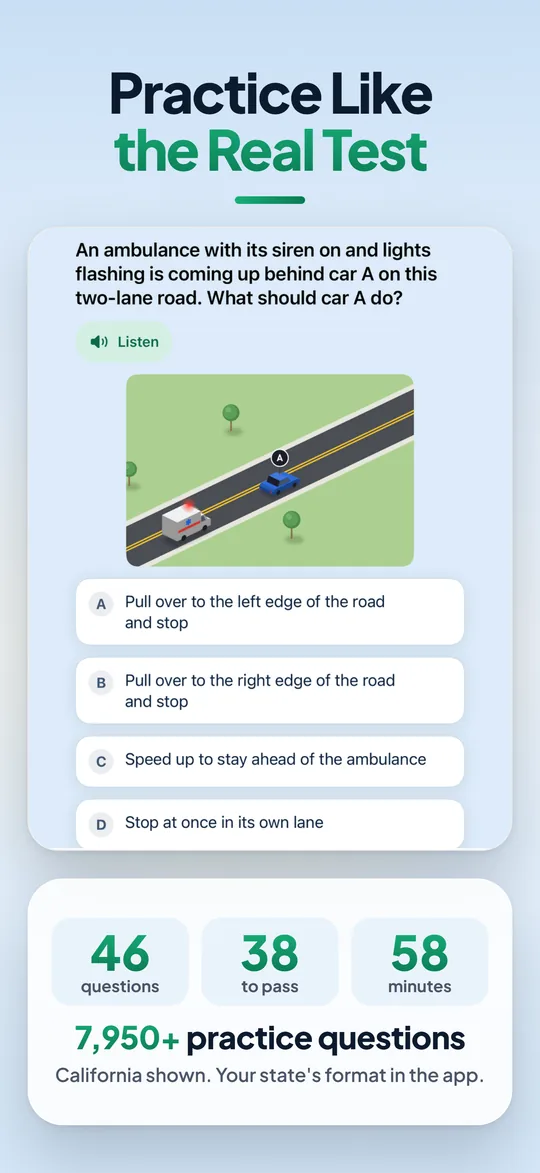
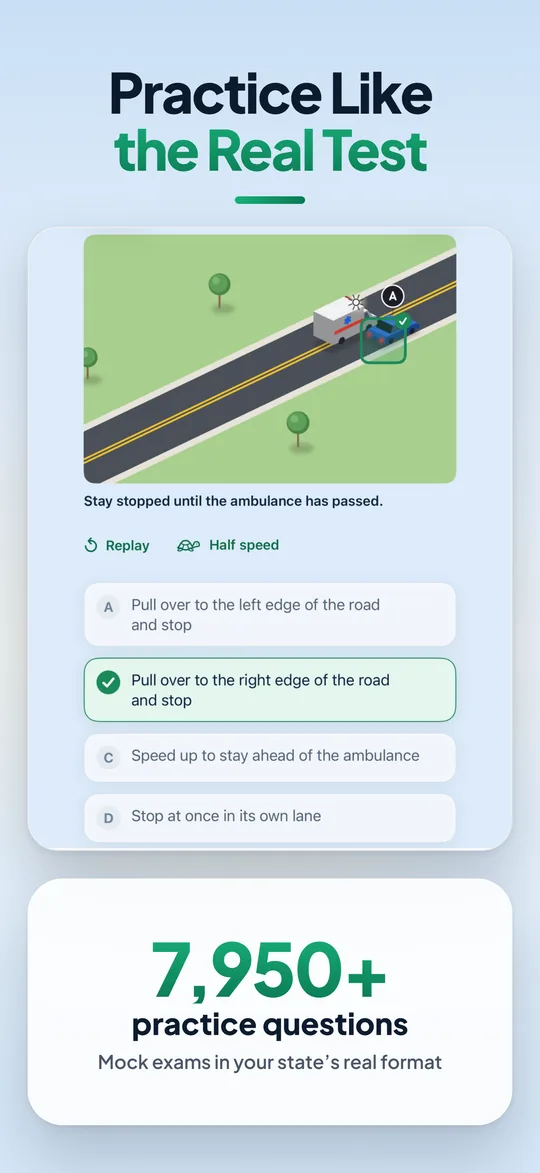
STAGED for 2.0, not published: store picture 3 = ambulance question in practice (scene full width) + Option B card
Same picture as version 2.0's store sets (uploaded 11-19): en/es 3 now show the green 2.0 practice screen with the ambulance
scene playing at full width (Replay / Half speed) and the card "7,950+ practice questions / Mock exams in your state's real
format" ("preguntas de práctica / Simulacros con el formato real de tu estado"); no California numbers. Alt text follows.
check_site: only the 2 sitemap lastmod notes for the privacy pages that were already there before.

Changed region(s): [[0.1185, 0.1841, 0.8593, 0.7366], [0.1185, 0.798, 0.8889, 0.9207]]

diff --git a/es/index.html b/es/index.html
@@ -114,7 +114,7 @@
     <div class="wrap"><div class="shots-wrap"><ul class="shots" aria-label="Capturas de la app">
       <li><picture><source type="image/webp" srcset="/img/store/2-0/es-01.webp"><img src="/img/store/2-0/es-01.jpg" width="540" height="1173" alt="Aprueba tu permiso al primer intento: una nueva conductora con su licencia, calificación de 5.0 en la App Store y la Garantía de aprobación: apruebas tu examen de conocimientos o te devolvemos tu dinero." loading="lazy" decoding="async"></picture></li>
       <li><picture><source type="image/webp" srcset="/img/store/2-0/es-02.webp"><img src="/img/store/2-0/es-02.jpg" width="540" height="1173" alt="Tu estado, tu licencia: español o inglés, auto, motocicleta o CDL, los 50 estados y DC." loading="lazy" decoding="async"></picture></li>
-      <li><picture><source type="image/webp" srcset="/img/store/2-0/es-03.webp"><img src="/img/store/2-0/es-03.jpg" width="540" height="1173" alt="Practica como el examen real: el examen de conocimientos de California, 46 preguntas, 38 para aprobar, 58 minutos. Más de 7,950 preguntas entre auto, CDL y motocicleta." loading="lazy" decoding="async"></picture></li>
+      <li><picture><source type="image/webp" srcset="/img/store/2-0/es-03.webp"><img src="/img/store/2-0/es-03.jpg" width="540" height="1173" alt="Practica como el examen real: una pregunta sobre una ambulancia en la práctica, con su escena animada y Repetir y A media velocidad. Más de 7,950 preguntas de práctica y simulacros con el formato real de tu estado." loading="lazy" decoding="async"></picture></li>
       <li><picture><source type="image/webp" srcset="/img/store/2-0/es-04.webp"><img src="/img/store/2-0/es-04.jpg" width="540" height="1173" alt="Calles reales, señales reales: una señal de alto vista desde el volante." loading="lazy" decoding="async"></picture></li>
       <li><picture><source type="image/webp" srcset="/img/store/2-0/es-05.webp"><img src="/img/store/2-0/es-05.jpg" width="540" height="1173" alt="Mira cada regla en acción: una escena vial animada, sal del camino y detente antes de tomar el teléfono, con Repetir y A media velocidad. Más de 60 escenas animadas." loading="lazy" decoding="async"></picture></li>
       <li><picture><source type="image/webp" srcset="/img/store/2-0/es-06.webp"><img src="/img/store/2-0/es-06.jpg" width="540" height="1173" alt="Aprende por qué es correcta: cada respuesta explicada." loading="lazy" decoding="async"></picture></li>
@@ -175,7 +175,7 @@
       <p class="sec-sub">Todo en una app. Elige el examen que estás estudiando.</p>
       <div class="lane-grid">
         <article class="lane" id="auto">
-          <div class="lane-art-wrap"><picture><source type="image/webp" srcset="/img/store/2-0/es-03.webp"><img src="/img/store/2-0/es-03.jpg" width="540" height="1173" alt="Practica como el examen real: el examen de conocimientos de California, 46 preguntas, 38 para aprobar, 58 minutos. Más de 7,950 preguntas entre auto, CDL y motocicleta." loading="lazy" decoding="async"></picture></div>
+          <div class="lane-art-wrap"><picture><source type="image/webp" srcset="/img/store/2-0/es-03.webp"><img src="/img/store/2-0/es-03.jpg" width="540" height="1173" alt="Practica como el examen real: una pregunta sobre una ambulancia en la práctica, con su escena animada y Repetir y A media velocidad. Más de 7,950 preguntas de práctica y simulacros con el formato real de tu estado." loading="lazy" decoding="async"></picture></div>
           <div class="lane-body">
             <h3>Permiso de auto</h3>
             <p>Más de 5,600 preguntas de auto (más de 440 para el examen de tu estado) y más de 60 escenas animadas. Los 50 estados y DC.</p>

diff --git a/index.html b/index.html
@@ -122,7 +122,7 @@
     <div class="wrap"><div class="shots-wrap"><ul class="shots" aria-label="App screenshots">
       <li><picture><source type="image/webp" srcset="/img/store/2-0/en-01.webp"><img src="/img/store/2-0/en-01.jpg" width="540" height="1173" alt="Pass your permit on the first try: a new driver holding her license, a 5.0 App Store rating and the Pass Guarantee: pass your knowledge test or get your money back." loading="lazy" decoding="async"></picture></li>
       <li><picture><source type="image/webp" srcset="/img/store/2-0/en-02.webp"><img src="/img/store/2-0/en-02.jpg" width="540" height="1173" alt="Your state, your license: English or Spanish, car, motorcycle or CDL, all 50 states and DC." loading="lazy" decoding="async"></picture></li>
-      <li><picture><source type="image/webp" srcset="/img/store/2-0/en-03.webp"><img src="/img/store/2-0/en-03.jpg" width="540" height="1173" alt="Practice like the real test: a California knowledge test, 46 questions, 38 to pass, 58 minutes. 7,950+ practice questions across car, CDL and motorcycle." loading="lazy" decoding="async"></picture></li>
+      <li><picture><source type="image/webp" srcset="/img/store/2-0/en-03.webp"><img src="/img/store/2-0/en-03.jpg" width="540" height="1173" alt="Practice like the real test: an ambulance question in practice, its road scene playing with Replay and Half speed. 7,950+ practice questions, and mock exams in your state's real format." loading="lazy" decoding="async"></picture></li>
       <li><picture><source type="image/webp" srcset="/img/store/2-0/en-04.webp"><img src="/img/store/2-0/en-04.jpg" width="540" height="1173" alt="Real roads, real signs: a stop sign seen from the driver's seat." loading="lazy" decoding="async"></picture></li>
       <li><picture><source type="image/webp" srcset="/img/store/2-0/en-05.webp"><img src="/img/store/2-0/en-05.jpg" width="540" height="1173" alt="Watch each rule play out: an animated road scene, pull off and stop before you pick up your phone, with Replay and Half speed. 60+ animated road scenes." loading="lazy" decoding="async"></picture></li>
       <li><picture><source type="image/webp" srcset="/img/store/2-0/en-06.webp"><img src="/img/store/2-0/en-06.jpg" width="540" height="1173" alt="Learn why it's right: every answer explained, here a work-zone question." loading="lazy" decoding="async"></picture></li>
@@ -167,7 +167,7 @@
       <p class="sec-sub">All in one app. Pick the test you are studying for.</p>
       <div class="lane-grid">
         <article class="lane" id="car">
-          <div class="lane-art-wrap"><picture><source type="image/webp" srcset="/img/store/2-0/en-03.webp"><img src="/img/store/2-0/en-03.jpg" width="540" height="1173" alt="Practice like the real test: a California knowledge test, 46 questions, 38 to pass, 58 minutes. 7,950+ practice questions across car, CDL and motorcycle." loading="lazy" decoding="async"></picture></div>
+          <div class="lane-art-wrap"><picture><source type="image/webp" srcset="/img/store/2-0/en-03.webp"><img src="/img/store/2-0/en-03.jpg" width="540" height="1173" alt="Practice like the real test: an ambulance question in practice, its road scene playing with Replay and Half speed. 7,950+ practice questions, and mock exams in your state's real format." loading="lazy" decoding="async"></picture></div>
           <div class="lane-body">
             <h3>Car permit</h3>
             <p>5,600+ car questions (440+ for your state's own test), with 60+ animated road scenes. Full mock exams in your state's format.</p>

diff --git a/es/california/index.html b/es/california/index.html
@@ -132,7 +132,7 @@
           <p class="g-note">Garantía de aprobación: apruebas tu examen de conocimientos o te devolvemos tu dinero. <a href="/es/garantia/">Condiciones.</a></p>
         </div>
       </div>
-      <div class="hero-art"><picture><source type="image/webp" srcset="/img/store/2-0/es-03.webp"><img src="/img/store/2-0/es-03.jpg" width="540" height="1173" alt="Practica como el examen real: el examen de conocimientos de California, 46 preguntas, 38 para aprobar, 58 minutos. Más de 7,950 preguntas entre auto, CDL y motocicleta." decoding="async"></picture></div>
+      <div class="hero-art"><picture><source type="image/webp" srcset="/img/store/2-0/es-03.webp"><img src="/img/store/2-0/es-03.jpg" width="540" height="1173" alt="Practica como el examen real: una pregunta sobre una ambulancia en la práctica, con su escena animada y Repetir y A media velocidad. Más de 7,950 preguntas de práctica y simulacros con el formato real de tu estado." decoding="async"></picture></div>
     </div>
   </section>
 

diff --git a/practice/california/index.html b/practice/california/index.html
@@ -138,7 +138,7 @@
           <p class="g-note">Pass Guarantee: pass your knowledge test or get your money back. <a href="/guarantee/">Conditions apply.</a></p>
         </div>
       </div>
-      <div class="hero-art"><picture><source type="image/webp" srcset="/img/store/2-0/en-03.webp"><img src="/img/store/2-0/en-03.jpg" width="540" height="1173" alt="Practice like the real test: a California knowledge test, 46 questions, 38 to pass, 58 minutes. 7,950+ practice questions across car, CDL and motorcycle." decoding="async"></picture></div>
+      <div class="hero-art"><picture><source type="image/webp" srcset="/img/store/2-0/en-03.webp"><img src="/img/store/2-0/en-03.jpg" width="540" height="1173" alt="Practice like the real test: an ambulance question in practice, its road scene playing with Replay and Half speed. 7,950+ practice questions, and mock exams in your state's real format." decoding="async"></picture></div>
     </div>
   </section>
 

diff --git a/tools/build_es_pages.py b/tools/build_es_pages.py
@@ -35,7 +35,7 @@ PHONE_ES = ("/img/store/2-0/es-05",
             "Mira cada regla en acción: una escena vial animada, sal del camino y detente antes de tomar el teléfono, con Repetir y A media velocidad. Más de 60 escenas animadas.")
 PHONE_ES_BY_STATE = {
     "CA": ("/img/store/2-0/es-03",
-           "Practica como el examen real: el examen de conocimientos de California, 46 preguntas, 38 para aprobar, 58 minutos. Más de 7,950 preguntas entre auto, CDL y motocicleta."),
+           "Practica como el examen real: una pregunta sobre una ambulancia en la práctica, con su escena animada y Repetir y A media velocidad. Más de 7,950 preguntas de práctica y simulacros con el formato real de tu estado."),
 }
 
 # Spanish for the 9 verified states whose pack has notes, keyed by state code, with the English

diff --git a/tools/build_state_pages.py b/tools/build_state_pages.py
@@ -140,7 +140,7 @@ PHONE_EN = ("/img/store/2-0/en-05",
             "Watch each rule play out: an animated road scene, pull off and stop before you pick up your phone, with Replay and Half speed. 60+ animated road scenes.")
 PHONE_EN_BY_STATE = {
     "CA": ("/img/store/2-0/en-03",
-           "Practice like the real test: a California knowledge test, 46 questions, 38 to pass, 58 minutes. 7,950+ practice questions across car, CDL and motorcycle."),
+           "Practice like the real test: an ambulance question in practice, its road scene playing with Replay and Half speed. 7,950+ practice questions, and mock exams in your state's real format."),
 }
 
 CHECK_SVG = ('<svg class="i" viewBox="0 0 24 24" aria-hidden="true">'
